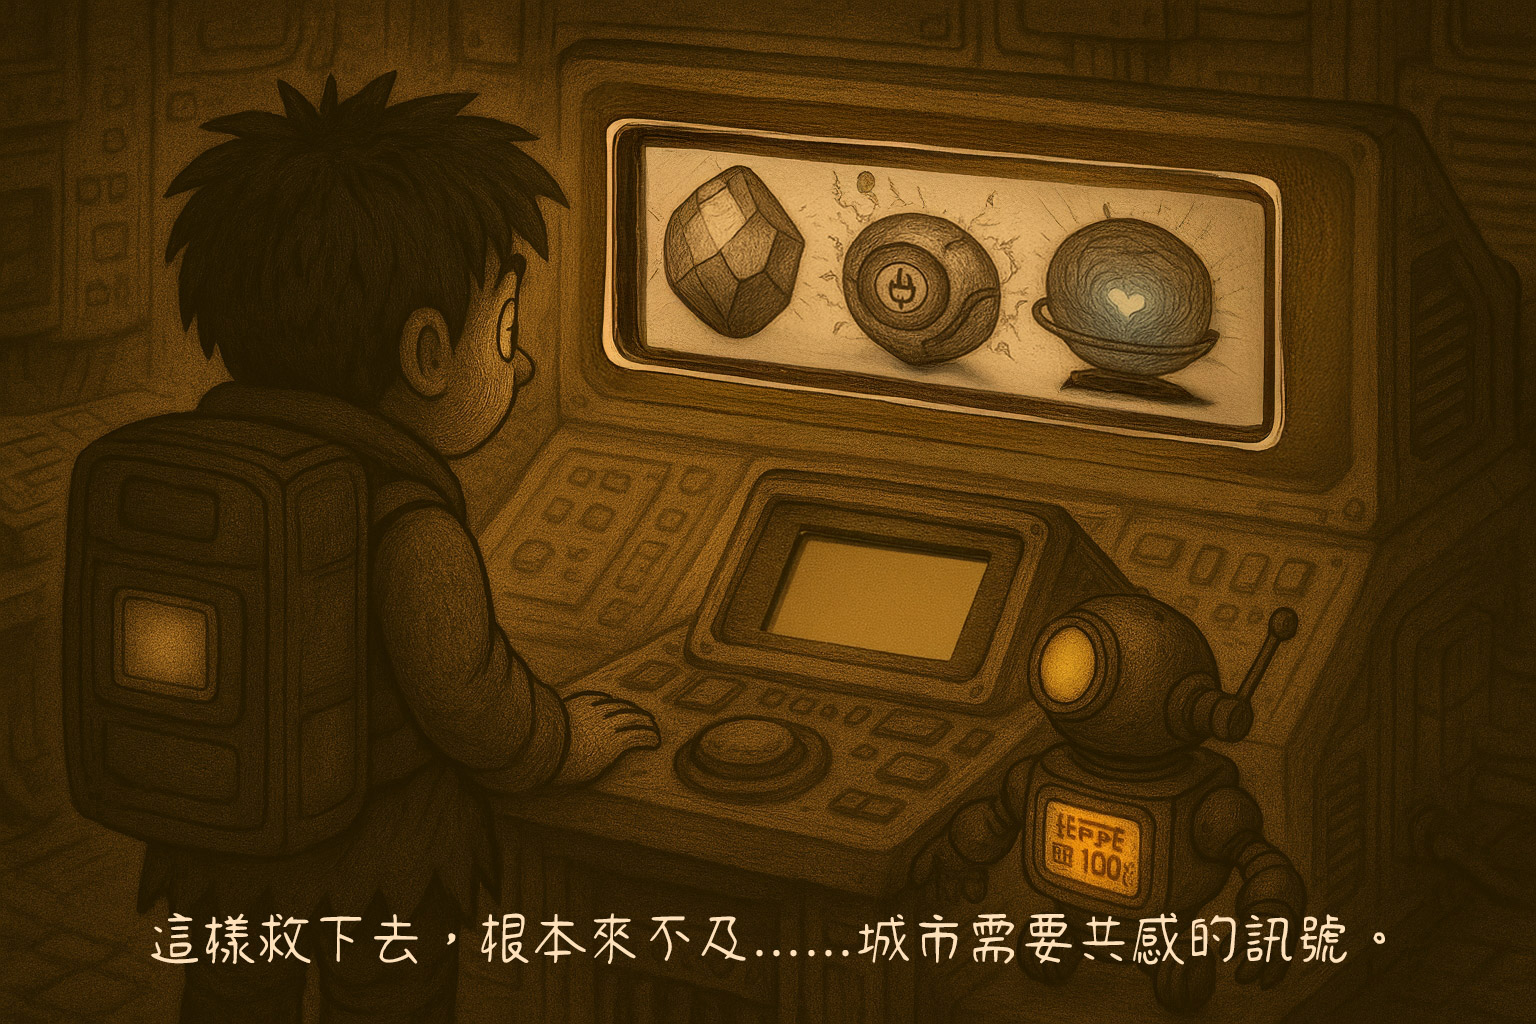
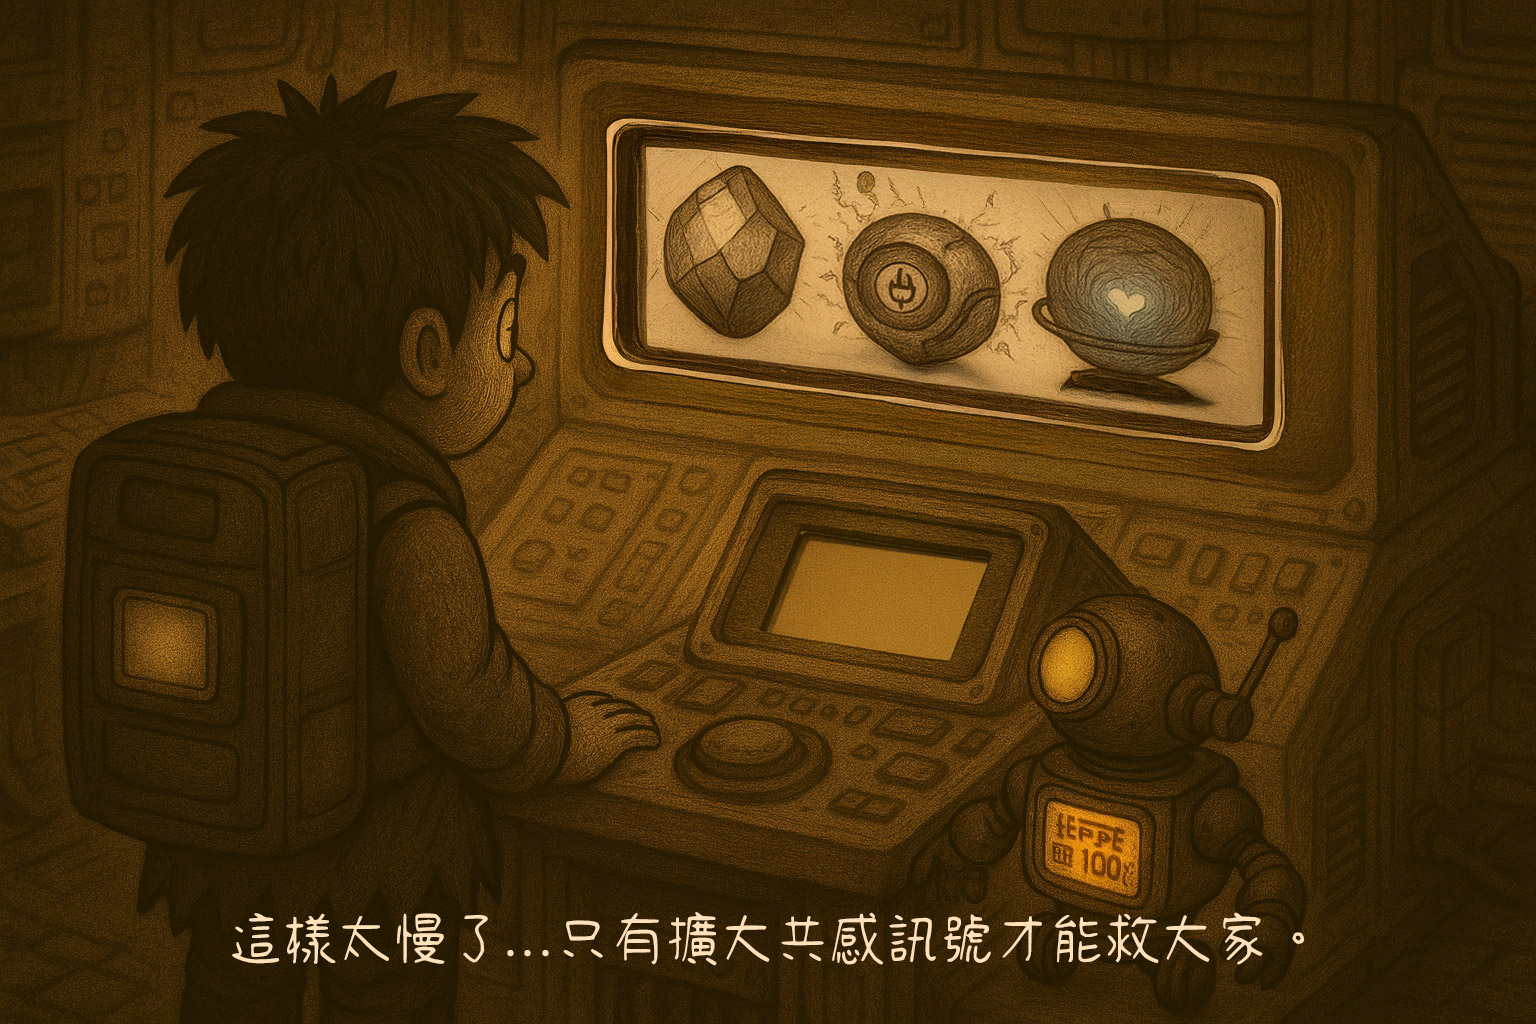
更新圖片更新顏色

Changed region(s): [[0.0938, 0.875, 0.875, 0.9375]]

diff --git a/gameConfig.js b/gameConfig.js
@@ -58,28 +58,28 @@ const GAME_CONFIG = {
     mapItemA: {
       name: "OPEE",
       description: "一個機器人",
-      color: "#FF4444",
+      color: "#d0cba5",
       size: 80,
       image: "assets/items/item-map-a.png",
     },
     mapItemB: {
       name: "共感頻率器",
       description: "大喇叭",
-      color: "#44FF44",
+      color: "#277396",
       size: 75,
       image: "assets/items/item-map-b.png",
     },
     monsterItemA: {
       name: "綠能聚合晶體",
       description: "綠色的石頭",
-      color: "#FFAA00",
+      color: "#637441",
       size: 50,
       image: "assets/items/item-monster-a.png",
     },
     monsterItemB: {
       name: "動能核心",
       description: "有電的東西",
-      color: "#4444FF",
+      color: "#ff6700",
       size: 70,
       image: "assets/items/item-monster-b.png",
     },
